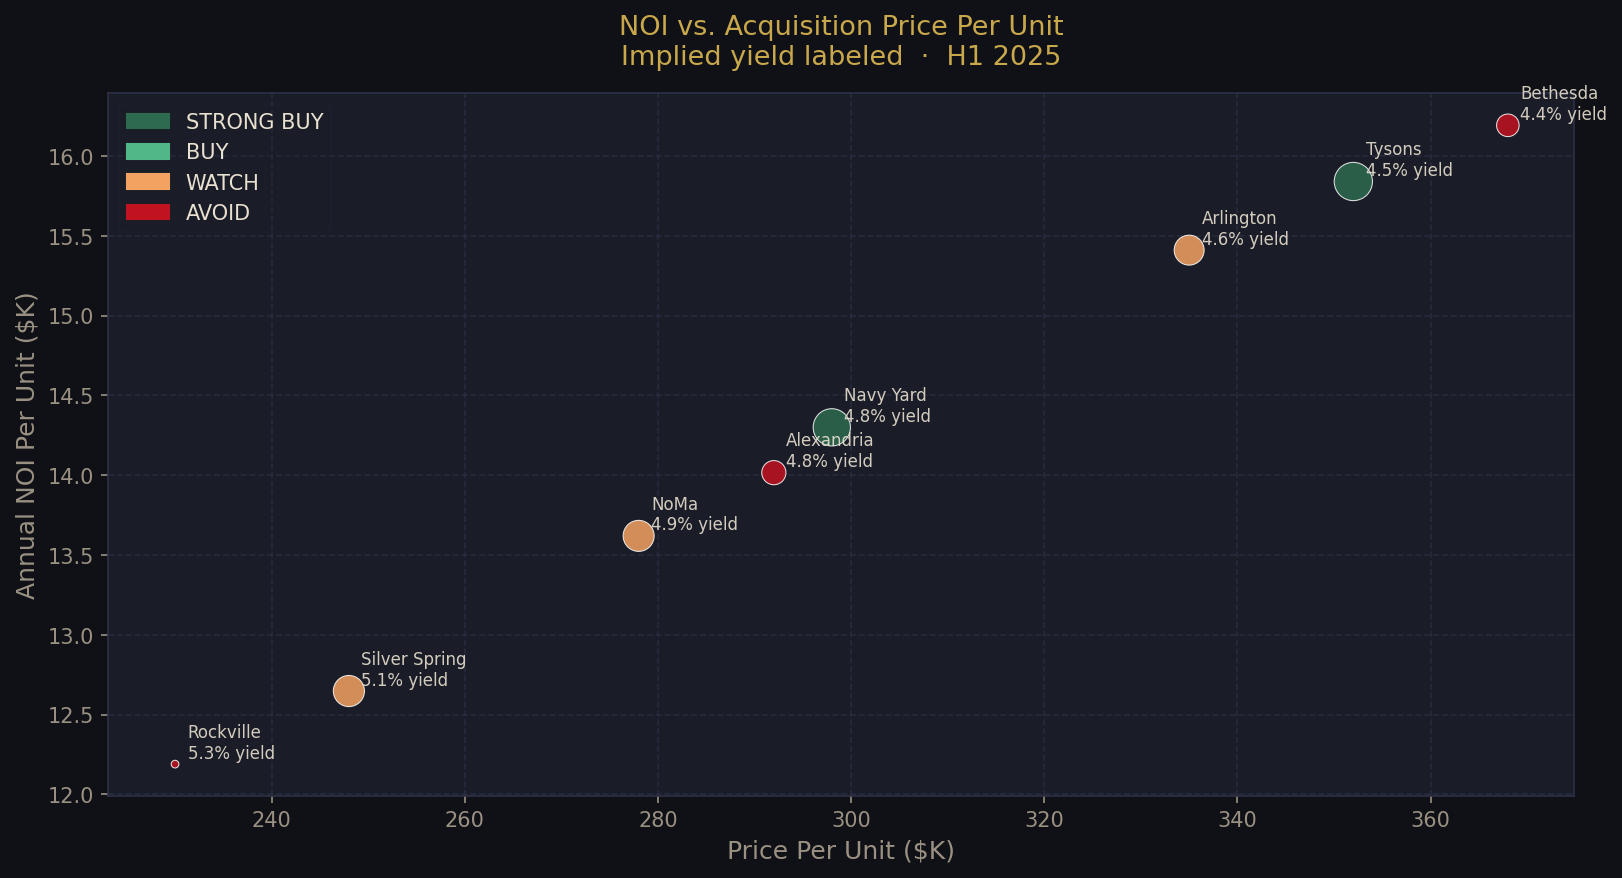
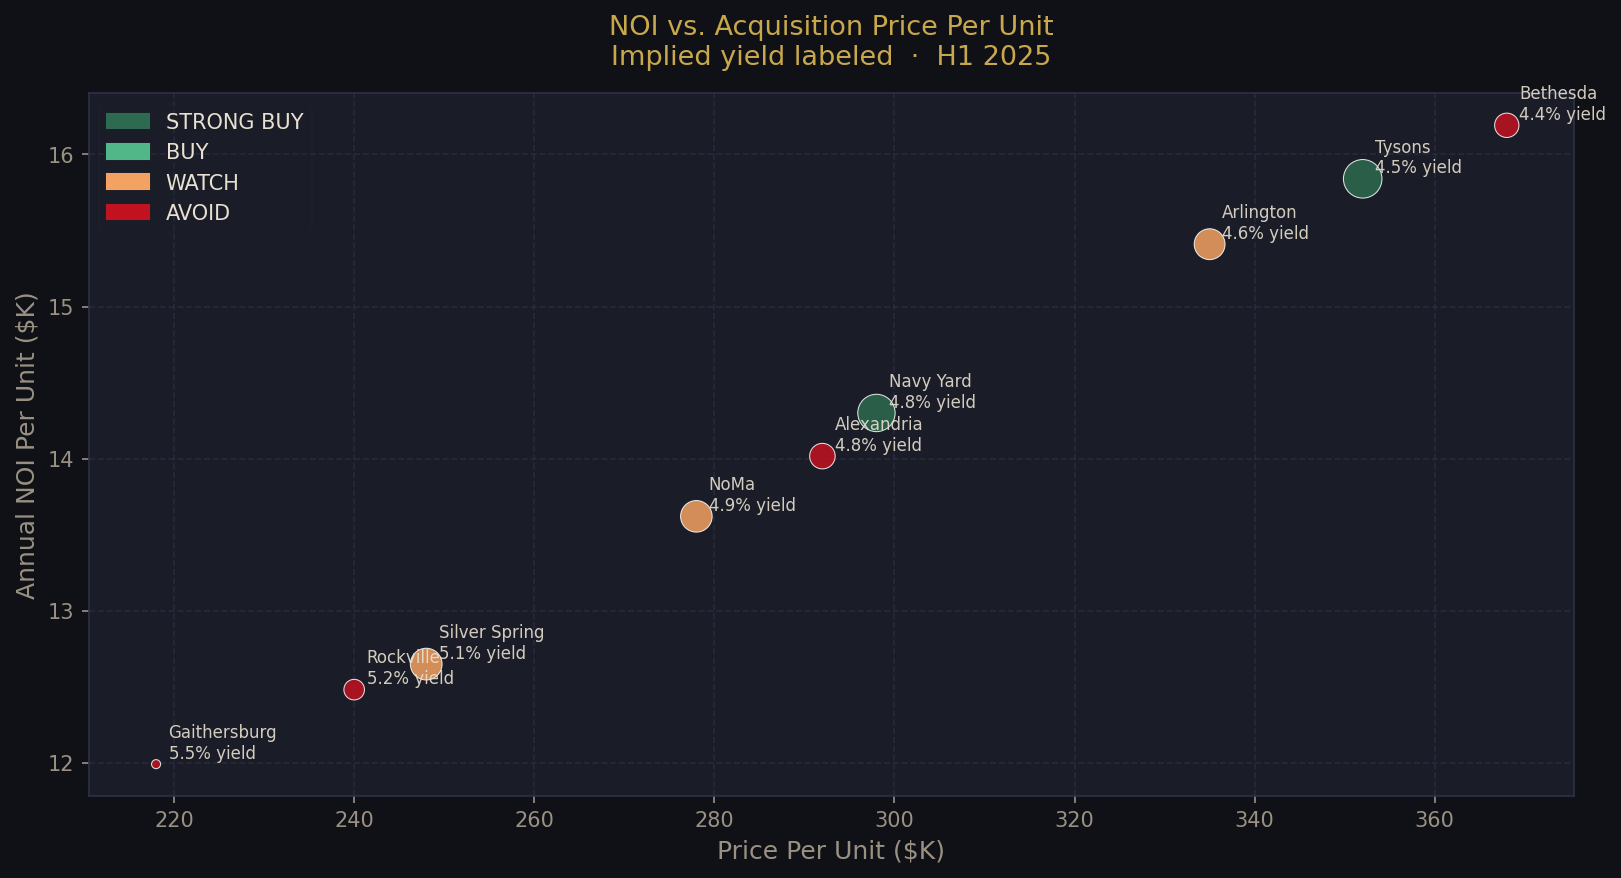
Split Rockville / Gaithersburg into separate submarkets
Gaithersburg now scored independently: NIST-anchored biotech corridor,
suburban walkability, end-of-Red-Line access, highest concession rate
in dataset. Rockville stands alone with Town Center density advantage.

diff --git a/src/dmv_data.py b/src/dmv_data.py
@@ -287,41 +287,88 @@ SUBMARKETS = {
         "school_rating":         8.9,
     },
 
-    "Rockville / Gaithersburg (MD)": {
+    "Gaithersburg (MD)": {
         "state": "MD",
         "class": "A/B",
-        "avg_rent_studio":  1_620,
-        "avg_rent_1br":     2_080,
-        "avg_rent_2br":     2_780,
-        "avg_rent_3br":     3_650,
-        "rent_growth_yoy":  3.1,
-        "rent_growth_3yr":  8.0,
-        "concession_rate":  6.2,
-        "occupancy_rate":   92.4,
-        "absorption_rate":  74,
-        "avg_days_on_market": 38,
-        "new_supply_units_pipeline": 1_560,
-        "typical_building_size":     220,
-        "job_growth_yoy":   2.0,
-        "unemployment_rate": 3.2,
-        "federal_workforce_risk": 48,
+        # Gaithersburg is the Shady Grove end-of-Red-Line biotech corridor.
+        # NIST HQ, AstraZeneca, and the Life Sciences cluster at Shady Grove drive demand,
+        # but the submarket is suburban and car-dependent outside the Shady Grove station area.
+        "avg_rent_studio":  1_550,
+        "avg_rent_1br":     2_010,
+        "avg_rent_2br":     2_700,
+        "avg_rent_3br":     3_560,
+        "rent_growth_yoy":  3.0,
+        "rent_growth_3yr":  7.6,
+        "concession_rate":  6.8,        # highest concession pressure in the dataset
+        "occupancy_rate":   91.9,
+        "absorption_rate":  71,
+        "avg_days_on_market": 42,
+        "new_supply_units_pipeline": 980,
+        "typical_building_size":     200,
+        "job_growth_yoy":   2.3,
+        "unemployment_rate": 3.3,
+        "federal_workforce_risk": 46,   # NIST is federal; limited private-sector diversification
         "major_employers": [
-            "NIH / FDA cluster", "AstraZeneca", "Sodexo HQ"
+            "NIST (National Institute of Standards & Technology)",
+            "AstraZeneca (Gaithersburg campus)",
+            "Sodexo HQ", "Montgomery County Public Schools"
         ],
-        "median_hh_income":    104_000,
-        "income_growth_yoy":   2.9,
-        "population_growth_yoy": 1.2,
-        "net_migration_score":   48,
-        "renter_pct":            44,
-        "age_25_44_pct":         31,
-        "walk_score":            68,
-        "transit_score":         64,
-        "metro_distance_miles":  1.9,
-        "cap_rate_market":       5.3,
-        "price_per_unit":        230_000,
-        "avg_noi_per_unit":      12_190,
-        "crime_index":           43,
-        "school_rating":         7.5,
+        "median_hh_income":    98_000,
+        "income_growth_yoy":   2.7,
+        "population_growth_yoy": 1.1,
+        "net_migration_score":   44,
+        "renter_pct":            41,
+        "age_25_44_pct":         30,
+        "walk_score":            61,    # suburban — low walkability except near Shady Grove Metro
+        "transit_score":         60,
+        "metro_distance_miles":  1.4,   # Shady Grove station is end-of-line
+        "cap_rate_market":       5.5,
+        "price_per_unit":        218_000,
+        "avg_noi_per_unit":      11_990,
+        "crime_index":           47,
+        "school_rating":         7.3,
+    },
+
+    "Rockville (MD)": {
+        "state": "MD",
+        "class": "A/B",
+        # Rockville Town Center is denser and more walkable than Gaithersburg.
+        # Rockville Metro station (Red Line) gives direct access to DC.
+        # Biotech/pharma employers nearby but slower absorption than inner suburbs.
+        "avg_rent_studio":  1_700,
+        "avg_rent_1br":     2_160,
+        "avg_rent_2br":     2_880,
+        "avg_rent_3br":     3_760,
+        "rent_growth_yoy":  3.3,
+        "rent_growth_3yr":  8.5,
+        "concession_rate":  5.5,
+        "occupancy_rate":   92.9,
+        "absorption_rate":  77,
+        "avg_days_on_market": 34,
+        "new_supply_units_pipeline": 640,
+        "typical_building_size":     190,
+        "job_growth_yoy":   2.1,
+        "unemployment_rate": 3.1,
+        "federal_workforce_risk": 51,
+        "major_employers": [
+            "NIH / FDA (White Oak / Rockville cluster)",
+            "Novavax", "Human Genome Sciences / GSK",
+            "Montgomery County Govt"
+        ],
+        "median_hh_income":    110_000,
+        "income_growth_yoy":   3.1,
+        "population_growth_yoy": 1.3,
+        "net_migration_score":   50,
+        "renter_pct":            46,
+        "age_25_44_pct":         33,
+        "walk_score":            72,
+        "transit_score":         70,
+        "metro_distance_miles":  0.8,
+        "cap_rate_market":       5.2,
+        "price_per_unit":        240_000,
+        "avg_noi_per_unit":      12_480,
+        "crime_index":           39,
+        "school_rating":         7.7,
     },
 }
 
